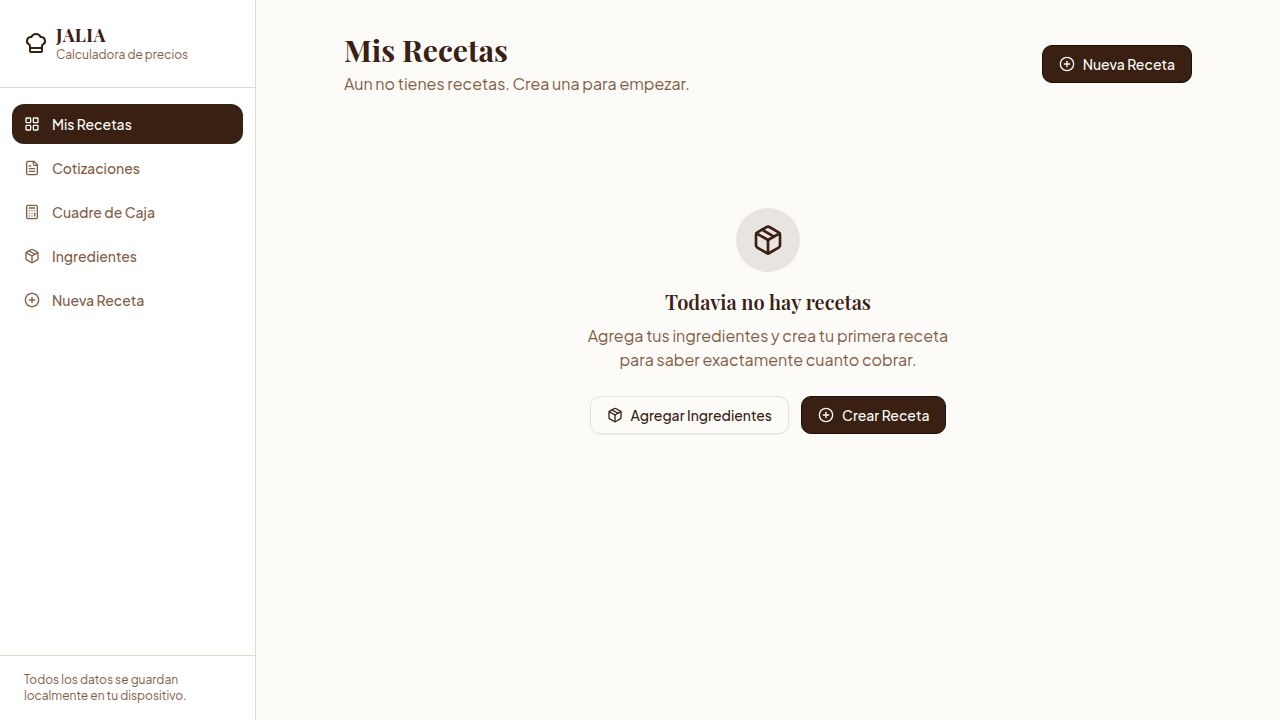
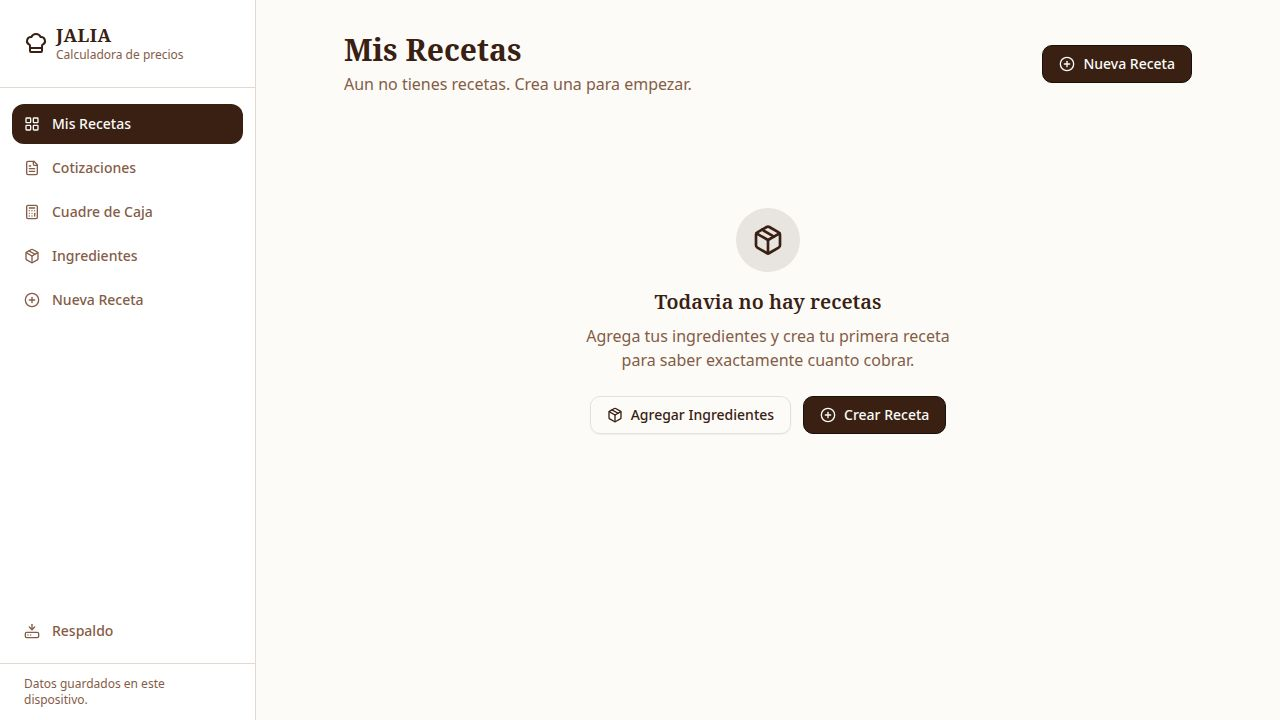
Add backup and restore functionality for application data
Implement a new 'Respaldo' page allowing users to export and import all application data (recipes, ingredients, quotes, sales) using JSON files, and integrate it into the main layout navigation.

Replit-Commit-Author: Agent
Replit-Commit-Session-Id: 7c877abb-f620-4b40-8570-49680050221d
Replit-Commit-Checkpoint-Type: full_checkpoint
Replit-Commit-Event-Id: 87267bc4-fd55-4f54-821d-9736adb39371
Replit-Commit-Screenshot-Url: https://storage.googleapis.com/screenshot-production-us-central1/08e0a544-20f3-4fe1-8153-5e625bb725fe/7c877abb-f620-4b40-8570-49680050221d/H1ExX39
Replit-Helium-Checkpoint-Created: true

diff --git a/artifacts/calculadora-postres/src/pages/Respaldo.tsx b/artifacts/calculadora-postres/src/pages/Respaldo.tsx
@@ -1,0 +1,331 @@
+import { useRef, useState } from "react";
+import { Download, Upload, CheckCircle2, AlertTriangle, ShieldCheck, Trash2 } from "lucide-react";
+import { motion, AnimatePresence } from "framer-motion";
+import { Button } from "@/components/ui/button";
+import { Card, CardContent, CardHeader, CardTitle } from "@/components/ui/card";
+import { Separator } from "@/components/ui/separator";
+import {
+  AlertDialog,
+  AlertDialogAction,
+  AlertDialogCancel,
+  AlertDialogContent,
+  AlertDialogDescription,
+  AlertDialogFooter,
+  AlertDialogHeader,
+  AlertDialogTitle,
+} from "@/components/ui/alert-dialog";
+
+const LLAVES = [
+  { key: "postres_recetas",      label: "Recetas",       emoji: "🍰" },
+  { key: "postres_ingredientes", label: "Ingredientes",  emoji: "🧈" },
+  { key: "postres_cotizaciones", label: "Cotizaciones",  emoji: "📋" },
+  { key: "postres_ventas",       label: "Ventas (caja)", emoji: "💰" },
+];
+
+function leerDatos() {
+  const datos: Record<string, unknown> = {};
+  LLAVES.forEach(({ key }) => {
+    try {
+      const raw = localStorage.getItem(key);
+      datos[key] = raw ? JSON.parse(raw) : [];
+    } catch {
+      datos[key] = [];
+    }
+  });
+  return datos;
+}
+
+function contarRegistros(datos: Record<string, unknown>) {
+  return LLAVES.map(({ key, label, emoji }) => {
+    const arr = Array.isArray(datos[key]) ? (datos[key] as unknown[]) : [];
+    return { key, label, emoji, total: arr.length };
+  });
+}
+
+export default function Respaldo() {
+  const [importStatus, setImportStatus] = useState<"idle" | "ok" | "error">("idle");
+  const [importMsg, setImportMsg]       = useState("");
+  const [pendingData, setPendingData]   = useState<Record<string, unknown> | null>(null);
+  const [confirmOpen, setConfirmOpen]   = useState(false);
+  const [borrarOpen, setBorrarOpen]     = useState(false);
+  const fileRef = useRef<HTMLInputElement>(null);
+
+  const datosActuales = leerDatos();
+  const resumenActual = contarRegistros(datosActuales);
+  const totalActual   = resumenActual.reduce((s, r) => s + r.total, 0);
+
+  // ── Export ──────────────────────────────────────────────────────────────
+  function exportar() {
+    const datos = leerDatos();
+    const payload = {
+      version: 1,
+      exportadoEl: new Date().toISOString(),
+      negocio: "JALIA",
+      datos,
+    };
+    const blob = new Blob([JSON.stringify(payload, null, 2)], { type: "application/json" });
+    const url  = URL.createObjectURL(blob);
+    const a    = document.createElement("a");
+    a.href     = url;
+    a.download = `JALIA_respaldo_${new Date().toISOString().slice(0, 10)}.json`;
+    a.click();
+    URL.revokeObjectURL(url);
+  }
+
+  // ── Import ───────────────────────────────────────────────────────────────
+  function onFileChange(e: React.ChangeEvent<HTMLInputElement>) {
+    const file = e.target.files?.[0];
+    if (!fileRef.current) return;
+    fileRef.current.value = "";
+    if (!file) return;
+
+    const reader = new FileReader();
+    reader.onload = (ev) => {
+      try {
+        const json = JSON.parse(ev.target?.result as string);
+        if (!json.datos || typeof json.datos !== "object") {
+          throw new Error("Formato inválido");
+        }
+        // Validate each key is an array
+        LLAVES.forEach(({ key }) => {
+          if (json.datos[key] !== undefined && !Array.isArray(json.datos[key])) {
+            throw new Error(`Datos de ${key} no son válidos`);
+          }
+        });
+        setPendingData(json.datos);
+        setConfirmOpen(true);
+        setImportStatus("idle");
+      } catch (err) {
+        setImportStatus("error");
+        setImportMsg("El archivo no es válido o está dañado. Asegúrate de subir un archivo de respaldo de JALIA.");
+      }
+    };
+    reader.readAsText(file);
+  }
+
+  function confirmarImport() {
+    if (!pendingData) return;
+    LLAVES.forEach(({ key }) => {
+      const val = pendingData[key];
+      if (Array.isArray(val)) {
+        localStorage.setItem(key, JSON.stringify(val));
+      }
+    });
+    setPendingData(null);
+    setConfirmOpen(false);
+    setImportStatus("ok");
+    setImportMsg("¡Datos restaurados correctamente! Recarga la página para verlos.");
+  }
+
+  function borrarTodo() {
+    LLAVES.forEach(({ key }) => localStorage.removeItem(key));
+    setBorrarOpen(false);
+    setImportStatus("ok");
+    setImportMsg("Todos los datos han sido eliminados.");
+    window.location.reload();
+  }
+
+  const pendingResumen = pendingData ? contarRegistros(pendingData) : [];
+
+  return (
+    <div>
+      <div className="mb-8">
+        <h2 className="font-serif text-3xl font-bold text-foreground">Respaldo de datos</h2>
+        <p className="text-muted-foreground mt-1">
+          Exporta todos tus datos para guardarlos o transferirlos a otro dispositivo
+        </p>
+      </div>
+
+      {/* Status banner */}
+      <AnimatePresence>
+        {importStatus !== "idle" && (
+          <motion.div
+            initial={{ opacity: 0, y: -8 }}
+            animate={{ opacity: 1, y: 0 }}
+            exit={{ opacity: 0 }}
+            className={`flex items-start gap-3 rounded-xl p-4 mb-6 border ${
+              importStatus === "ok"
+                ? "bg-green-50 border-green-200 text-green-800"
+                : "bg-red-50 border-red-200 text-red-800"
+            }`}
+          >
+            {importStatus === "ok"
+              ? <CheckCircle2 className="w-5 h-5 mt-0.5 shrink-0" />
+              : <AlertTriangle className="w-5 h-5 mt-0.5 shrink-0" />
+            }
+            <p className="text-sm font-medium">{importMsg}</p>
+          </motion.div>
+        )}
+      </AnimatePresence>
+
+      <div className="grid grid-cols-1 lg:grid-cols-2 gap-6">
+
+        {/* Current data summary */}
+        <Card>
+          <CardHeader>
+            <CardTitle className="font-serif text-lg flex items-center gap-2">
+              <ShieldCheck className="w-5 h-5 text-primary" />
+              Datos guardados actualmente
+            </CardTitle>
+          </CardHeader>
+          <CardContent className="space-y-3">
+            {resumenActual.map(({ key, label, emoji, total }) => (
+              <div key={key} className="flex items-center justify-between py-1">
+                <div className="flex items-center gap-2">
+                  <span className="text-base">{emoji}</span>
+                  <span className="text-sm text-foreground">{label}</span>
+                </div>
+                <span className={`text-sm font-semibold ${total > 0 ? "text-primary" : "text-muted-foreground"}`}>
+                  {total} {total === 1 ? "registro" : "registros"}
+                </span>
+              </div>
+            ))}
+            <Separator />
+            <div className="flex items-center justify-between">
+              <span className="font-semibold text-foreground">Total</span>
+              <span className="font-bold text-foreground">{totalActual} registros</span>
+            </div>
+          </CardContent>
+        </Card>
+
+        {/* Actions */}
+        <div className="space-y-4">
+
+          {/* Export */}
+          <Card className="border-primary/20">
+            <CardHeader className="pb-2">
+              <CardTitle className="font-serif text-base flex items-center gap-2">
+                <Download className="w-4 h-4 text-primary" />
+                Exportar respaldo
+              </CardTitle>
+            </CardHeader>
+            <CardContent className="space-y-3">
+              <p className="text-sm text-muted-foreground">
+                Descarga un archivo <code className="bg-muted px-1 rounded text-xs">.json</code> con todas tus
+                recetas, ingredientes, cotizaciones y ventas. Guárdalo en Google Drive, WhatsApp o donde prefieras.
+              </p>
+              <Button onClick={exportar} className="w-full gap-2" data-testid="button-exportar-respaldo">
+                <Download className="w-4 h-4" />
+                Descargar respaldo
+              </Button>
+            </CardContent>
+          </Card>
+
+          {/* Import */}
+          <Card className="border-orange-200">
+            <CardHeader className="pb-2">
+              <CardTitle className="font-serif text-base flex items-center gap-2">
+                <Upload className="w-4 h-4 text-orange-600" />
+                Importar respaldo
+              </CardTitle>
+            </CardHeader>
+            <CardContent className="space-y-3">
+              <p className="text-sm text-muted-foreground">
+                Sube un archivo de respaldo de JALIA para restaurar tus datos en este dispositivo.
+                <span className="font-semibold text-orange-700"> Los datos actuales serán reemplazados.</span>
+              </p>
+              <input
+                ref={fileRef}
+                type="file"
+                accept=".json,application/json"
+                className="hidden"
+                onChange={onFileChange}
+                data-testid="input-importar-respaldo"
+              />
+              <Button
+                variant="outline"
+                onClick={() => fileRef.current?.click()}
+                className="w-full gap-2 border-orange-300 text-orange-700 hover:bg-orange-50"
+                data-testid="button-importar-respaldo"
+              >
+                <Upload className="w-4 h-4" />
+                Seleccionar archivo
+              </Button>
+            </CardContent>
+          </Card>
+
+          {/* Danger zone */}
+          <Card className="border-destructive/20">
+            <CardHeader className="pb-2">
+              <CardTitle className="font-serif text-base flex items-center gap-2 text-destructive">
+                <Trash2 className="w-4 h-4" />
+                Borrar todos los datos
+              </CardTitle>
+            </CardHeader>
+            <CardContent className="space-y-3">
+              <p className="text-sm text-muted-foreground">
+                Elimina permanentemente todas las recetas, ingredientes, cotizaciones y ventas guardadas.
+                <span className="font-semibold text-destructive"> Esta acción no se puede deshacer.</span>
+              </p>
+              <Button
+                variant="outline"
+                onClick={() => setBorrarOpen(true)}
+                className="w-full gap-2 border-destructive/30 text-destructive hover:bg-destructive/5"
+                data-testid="button-borrar-todo"
+              >
+                <Trash2 className="w-4 h-4" />
+                Borrar todo
+              </Button>
+            </CardContent>
+          </Card>
+        </div>
+      </div>
+
+      {/* Confirm import dialog */}
+      <AlertDialog open={confirmOpen} onOpenChange={setConfirmOpen}>
+        <AlertDialogContent>
+          <AlertDialogHeader>
+            <AlertDialogTitle>¿Restaurar este respaldo?</AlertDialogTitle>
+            <AlertDialogDescription asChild>
+              <div className="space-y-3">
+                <p>Esto reemplazará tus datos actuales con el contenido del archivo. El archivo contiene:</p>
+                <div className="bg-muted rounded-lg p-3 space-y-1">
+                  {pendingResumen.map(({ key, emoji, label, total }) => (
+                    <div key={key} className="flex justify-between text-sm">
+                      <span>{emoji} {label}</span>
+                      <span className="font-semibold">{total} registros</span>
+                    </div>
+                  ))}
+                </div>
+                <p className="text-orange-700 font-medium text-sm">
+                  Tus datos actuales ({totalActual} registros) serán reemplazados.
+                </p>
+              </div>
+            </AlertDialogDescription>
+          </AlertDialogHeader>
+          <AlertDialogFooter>
+            <AlertDialogCancel data-testid="button-cancelar-import">Cancelar</AlertDialogCancel>
+            <AlertDialogAction
+              onClick={confirmarImport}
+              data-testid="button-confirmar-import"
+            >
+              Sí, restaurar
+            </AlertDialogAction>
+          </AlertDialogFooter>
+        </AlertDialogContent>
+      </AlertDialog>
+
+      {/* Confirm delete all */}
+      <AlertDialog open={borrarOpen} onOpenChange={setBorrarOpen}>
+        <AlertDialogContent>
+          <AlertDialogHeader>
+            <AlertDialogTitle>¿Borrar todos los datos?</AlertDialogTitle>
+            <AlertDialogDescription>
+              Se eliminarán {totalActual} registros permanentemente. Te recomendamos exportar un respaldo antes.
+            </AlertDialogDescription>
+          </AlertDialogHeader>
+          <AlertDialogFooter>
+            <AlertDialogCancel data-testid="button-cancelar-borrar">Cancelar</AlertDialogCancel>
+            <AlertDialogAction
+              onClick={borrarTodo}
+              className="bg-destructive hover:bg-destructive/90"
+              data-testid="button-confirmar-borrar"
+            >
+              Sí, borrar todo
+            </AlertDialogAction>
+          </AlertDialogFooter>
+        </AlertDialogContent>
+      </AlertDialog>
+    </div>
+  );
+}

diff --git a/artifacts/calculadora-postres/src/components/Layout.tsx b/artifacts/calculadora-postres/src/components/Layout.tsx
@@ -1,5 +1,5 @@
 import { Link, useLocation } from "wouter";
-import { LayoutGrid, Package, PlusCircle, ChefHat, FileText, Calculator } from "lucide-react";
+import { LayoutGrid, Package, PlusCircle, ChefHat, FileText, Calculator, HardDriveDownload } from "lucide-react";
 import { cn } from "@/lib/utils";
 
 const navItems = [
@@ -8,6 +8,10 @@ const navItems = [
   { href: "/caja", label: "Cuadre de Caja", icon: Calculator },
   { href: "/ingredientes", label: "Ingredientes", icon: Package },
   { href: "/nueva-receta", label: "Nueva Receta", icon: PlusCircle },
+];
+
+const navBottom = [
+  { href: "/respaldo", label: "Respaldo", icon: HardDriveDownload },
 ];
 
 export default function Layout({ children }: { children: React.ReactNode }) {
@@ -51,9 +55,30 @@ export default function Layout({ children }: { children: React.ReactNode }) {
           })}
         </nav>
 
-        <div className="px-6 py-4 border-t border-border">
+        <div className="px-3 pb-3 space-y-1">
+          {navBottom.map(({ href, label, icon: Icon }) => {
+            const active = location.startsWith(href);
+            return (
+              <Link
+                key={href}
+                href={href}
+                data-testid={`nav-${label.toLowerCase()}`}
+                className={cn(
+                  "flex items-center gap-3 px-3 py-2.5 rounded-lg text-sm font-medium transition-colors",
+                  active
+                    ? "bg-primary text-primary-foreground"
+                    : "text-muted-foreground hover:text-foreground hover:bg-accent"
+                )}
+              >
+                <Icon className="w-4 h-4" />
+                {label}
+              </Link>
+            );
+          })}
+        </div>
+        <div className="px-6 py-3 border-t border-border">
           <p className="text-xs text-muted-foreground">
-            Todos los datos se guardan localmente en tu dispositivo.
+            Datos guardados en este dispositivo.
           </p>
         </div>
       </aside>

diff --git a/artifacts/calculadora-postres/src/App.tsx b/artifacts/calculadora-postres/src/App.tsx
@@ -12,6 +12,7 @@ import NuevaCotizacion from "@/pages/NuevaCotizacion";
 import CotizacionDetalle from "@/pages/CotizacionDetalle";
 import CuadreCaja from "@/pages/CuadreCaja";
 import RegistrarVenta from "@/pages/RegistrarVenta";
+import Respaldo from "@/pages/Respaldo";
 import NotFound from "@/pages/not-found";
 
 const queryClient = new QueryClient();
@@ -29,6 +30,7 @@ function Router() {
         <Route path="/cotizacion/:id" component={CotizacionDetalle} />
         <Route path="/caja" component={CuadreCaja} />
         <Route path="/caja/venta/:fecha" component={RegistrarVenta} />
+        <Route path="/respaldo" component={Respaldo} />
         <Route component={NotFound} />
       </Switch>
     </Layout>
